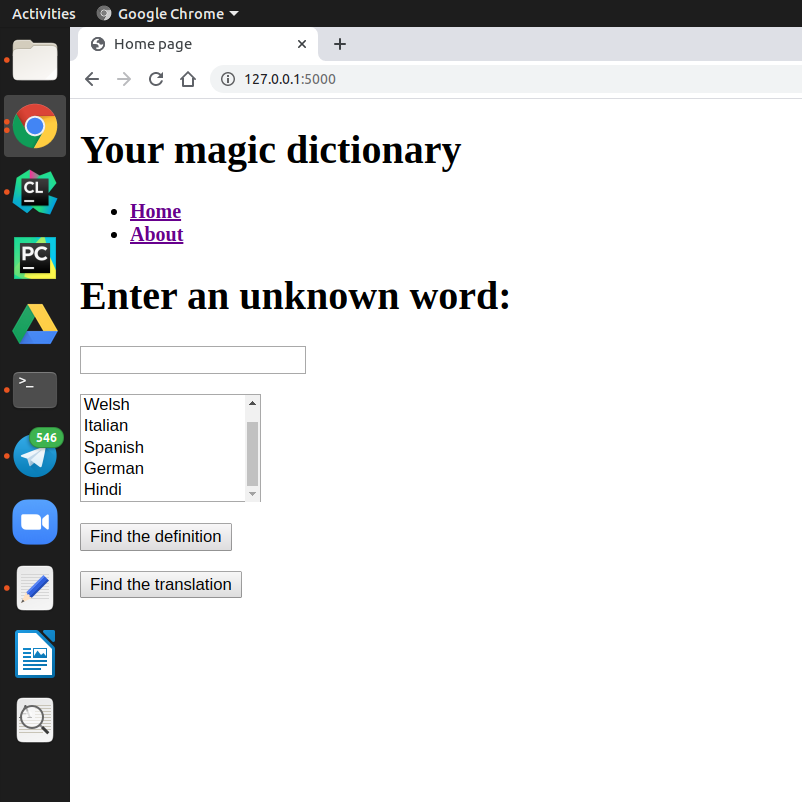
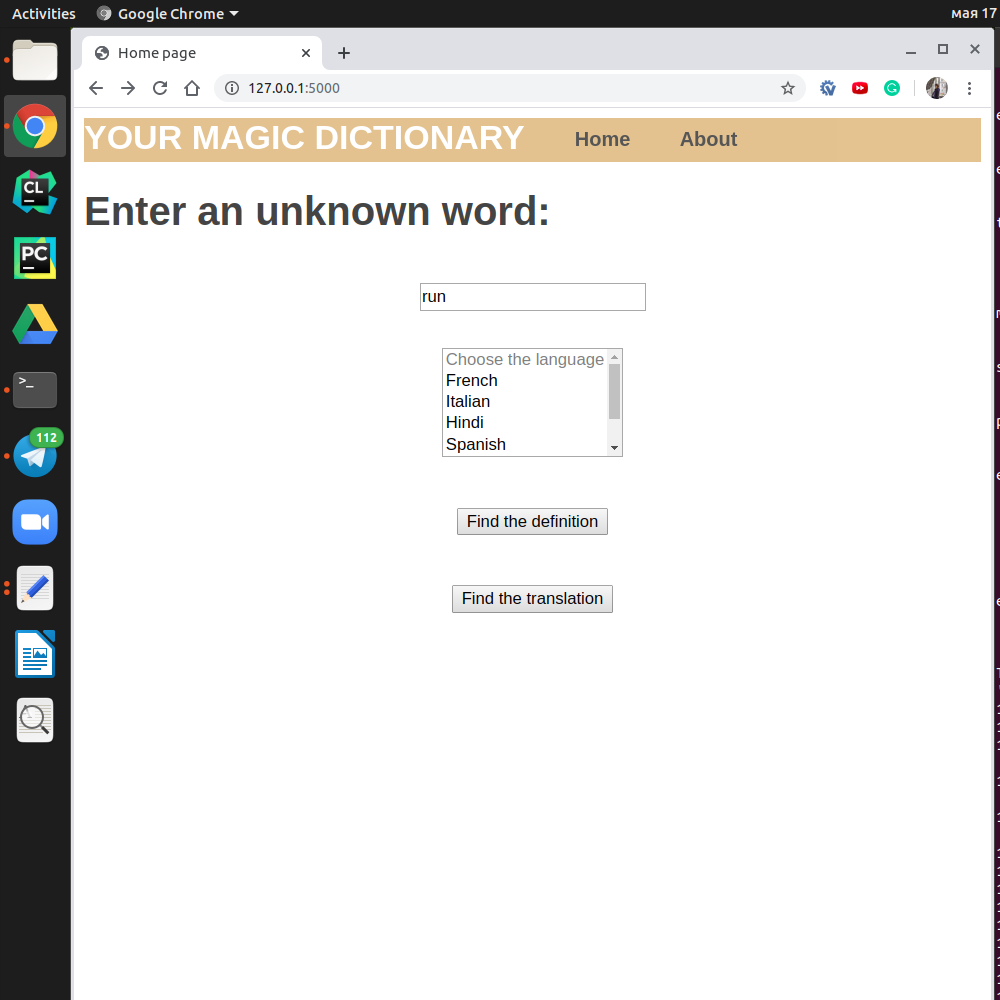
huuuuge fixes in translation, output and appearence

diff --git a/templates/template.html b/templates/template.html
@@ -3,7 +3,73 @@
  <head>
    <meta charset="utf-8">
    <title>Flask Parent Template</title>
-   <link rel="stylesheet" href="{{ url_for('static',     filename='css/template.css') }}">
+   <style>
+    body {
+  margin: 95;
+  padding: 0;
+  font-family: "Helvetica Neue", Helvetica, Arial, sans-serif;
+  color: #444;
+}
+header {
+  background-color: #DFB887;
+  height: 35px;
+  width: 100%;
+  opacity: .9;
+  margin-bottom: 10px;
+}
+header h1.logo {
+  margin: 0;
+  font-size: 1.7em;
+  color: #fff;
+  text-transform: uppercase;
+  float: left;
+}
+header h1.logo:hover {
+  color: #fff;
+  text-decoration: none;
+}
+.container {
+  width: 1200px;
+  margin: 0;
+}
+div.get_home {
+  padding: 20px 0 30px 0;
+  background-color: #E6E6FA;
+  -webkit-border-radius: 6px;
+     -moz-border-radius: 6px;
+          border-radius: 6px;
+}
+div.get_about {
+  padding: 20px 0 30px 0;
+  background-color: #E6E6FA;
+  -webkit-border-radius: 6px;
+     -moz-border-radius: 6px;
+          border-radius: 6px;
+}
+
+p {
+  font-size: 1.7em;
+  font-weight: 100;
+  margin-top: 30px;
+  text-align: center;
+  letter-spacing: -1px;
+  color: #999;
+}
+.menu {
+  float: left;
+  margin-top: 8px;
+}
+.menu li {
+  display: inline;
+}
+.menu li + li {
+  margin-left: 35px;
+}
+.menu li a {
+  color: #444;
+  text-decoration: none;
+}
+</style>
  </head>
  <body>
     <header>

diff --git a/templates/home.html b/templates/home.html
@@ -13,11 +13,12 @@
 	    <p><input name="word" /></p>
 	    <p><select size="5" multiple name="code">
 	        <option disabled>Choose the language</option>
-		<option value="cy">Welsh</option>
+		<option value="fr">French</option>
     		<option value="it">Italian</option>
+                <option value="hi">Hindi</option>
     		<option value="es">Spanish</option>
+                <option value="zh-Hant">Chinese</option>
     		<option value="de">German</option>
-		<option value="hi">Hindi</option>
    	    </select></p>	    
 	    <p><input type="submit" name="submit_button" value="Find the definition" /></p>
     	    <p><input type="submit" name="submit_button" value="Find the translation" /></p>

diff --git a/templates/index.html b/templates/index.html
@@ -1,0 +1,22 @@
+<!DOCTYPE html>
+<html lang="en" dir="ltr">
+  <head>
+    <meta charset="utf-8">
+            <title>Dictionary output</title>
+            </head>
+            <body>
+
+            <table>
+            {% for key, value in result.iteritems() %}
+               <tr>
+                    <th> {{ key }} </th>
+                    <td> {{ value }} </td>
+                    <p> </p> 
+                    <p> </p>
+                    <p> </p>
+               </tr>
+            {% endfor %}
+            </table>
+            <p><a href="/">Click here to go on</a>
+            </body>
+ </html>

diff --git a/templates/about.html b/templates/about.html
@@ -14,7 +14,7 @@
     <p>Dictionary!</p>
     <p> So often we encounter problems with understanding foreign texts in english.</p>
     <p> Here comes my web server to help you with any word, which</p>
-    <p>	meaning you didn't know or you can get a translation to one of five</p>
+    <p>	meaning you didn't know or you can get a translation to one of the six</p>
     <p> most popular languages.<p>
 	
     <p>Welcome!</p>

diff --git a/my_server.py b/my_server.py
@@ -1,31 +1,31 @@
 from flask import Flask, render_template, request
 from PyDictionary_library import get_meaning, get_translation
 
-app=Flask(__name__)
+app = Flask(__name__)
 app.config["DEBUG"] = True
 
 
 @app.route("/", methods=["GET", "POST"])
 def get_home():
     if request.method == "POST":
-	input = request.form["word"]
-	MESSAGE = '''
-    		<html>
-		    <body>
-			<p>{result}</p>
-			<p><a href="/">Click here to go on</a>
-	    	    </body>
-		</html>
+        input = request.form["word"]
+        MESSAGE = '''
+            <html>
+            <body>
+            <p>{result}</p>
+            <p><a href="/">Click here to go on</a>
+            </body>
+            </html>
                '''
-	if input != None:
-	    if request.form["submit_button"] == "Find the definition": 
-	        result = get_meaning(input)
-	        return MESSAGE.format(result=result)
+        if input is not None:
+            if request.form["submit_button"] == "Find the definition":
+                result = get_meaning(input)
+                return render_template('index.html', result = result)
 
-	    elif request.form["submit_button"] == "Find the translation":
-		code = request.form["code"]
-		result = get_translation(code, input)
-		return MESSAGE.format(result=result)
+            elif request.form["submit_button"] == "Find the translation":
+                code = request.form["code"]
+                result = get_translation(input, code)
+                return MESSAGE.format(result=result)
 
     return render_template("home.html")
 
@@ -37,3 +37,4 @@ def get_about():
 
 if __name__ == "__main__":
     app.run(debug=True)
+

diff --git a/tests.py b/tests.py
@@ -1,24 +1,36 @@
 import unittest
 from PyDictionary import PyDictionary
 
+
 class API_Tester(unittest.TestCase):
+    ok = 200
+
     def setUp(self):
         self.dictionary = PyDictionary
+
     def test_meaninig(self):
-        self.assertEqual(self.dictionary.meaning("play").status_code, 200)
+        self.assertEqual(self.dictionary.meaning("play").status_code, ok)
+
     def test_translate(self):
-        self.assertEqual(self.dictionary.translate("play", "cy").status_code, 200)
+        self.assertEqual(self.dictionary.translate("go", "fr").status_code, ok)
+
     def test_translate(self):
-        self.assertEqual(self.dictionary.translate("play", "es").status_code, 200)
+        self.assertEqual(self.dictionary.translate("go", "zh-Hant").status_code, ok)
+
     def test_translate(self):
-        self.assertEqual(self.dictionary.translate("play", "de").status_code, 200)
+        self.assertEqual(self.dictionary.translate("go", "de").status_code, ok)
+
     def test_translate(self):
-        self.assertEqual(self.dictionary.translate("play", "it").status_code, 200)
+        self.assertEqual(self.dictionary.translate("go", "it").status_code, ok)
+
     def test_translate(self):
-        self.assertEqual(self.dictionary.translate("play", "hi").status_code, 200)
+        self.assertEqual(self.dictionary.translate("go", "hi").status_code, ok)
+
+    def test_translate(self):
+        self.assertEqual(self.dictionary.translate("go", "es").status_code, ok)
 
 
 if __name__ == '__main__':
     unittest.main()
-        
-        
+
+

diff --git a/PyDictionary_library.py b/PyDictionary_library.py
@@ -2,6 +2,10 @@ from flask import Flask, request
 import json
 import requests
 from PyDictionary import PyDictionary
+from translate import Translator
+import pprint 
+from pprint import pformat
+
 
 app = Flask(__name__)
 app.config["DEBUG"] = True
@@ -13,14 +17,15 @@ def get_meaning(name):
     value = dictionary.meaning(name)
     if value is None:
         return json.dumps({'error': 'Word has no meaning in API'})
-    return json.dumps(value)
+    return value
 
 
 @app.route('/api/translate/<code>/<word>', methods=['GET'])
 def get_translation(word, code):
-    dictionary = PyDictionary()
-    value = dictionary.translate(word, code)
+    lang = str(code)
+    translator = Translator(to_lang = lang)
+    value = translator.translate(str(word))
     if value is None:
         return json.dumps({'error': 'Word has no translation in API'})
-    return json.dumps(value)
+    return json.dumps(value, ensure_ascii=False).encode('utf8')
 

diff --git a/readme.md b/readme.md
@@ -24,8 +24,6 @@ There you'll see such window:
 this is `home` page
 
 on `about` page you can learn about me and my project
-on `home` page you can insert a word in special window; afterwards, you can either choose one of five languages ans translate your word, or you can ger its definition by clicking the appropriate button  
+on `home` page you can insert a word in special window; afterwards, you can either choose one of six languages ans translate your word, or you can ger its definition by clicking the appropriate button  
 
-for some words' translations there is an output `{"error": "Word has no translation in API"}`
-it happens due to change in Google translate's policy, as PyDictionary uses Google translate
-https://stackoverflow.com/questions/37009972/pydictionary-translate-returns-invalid-word-none
+
